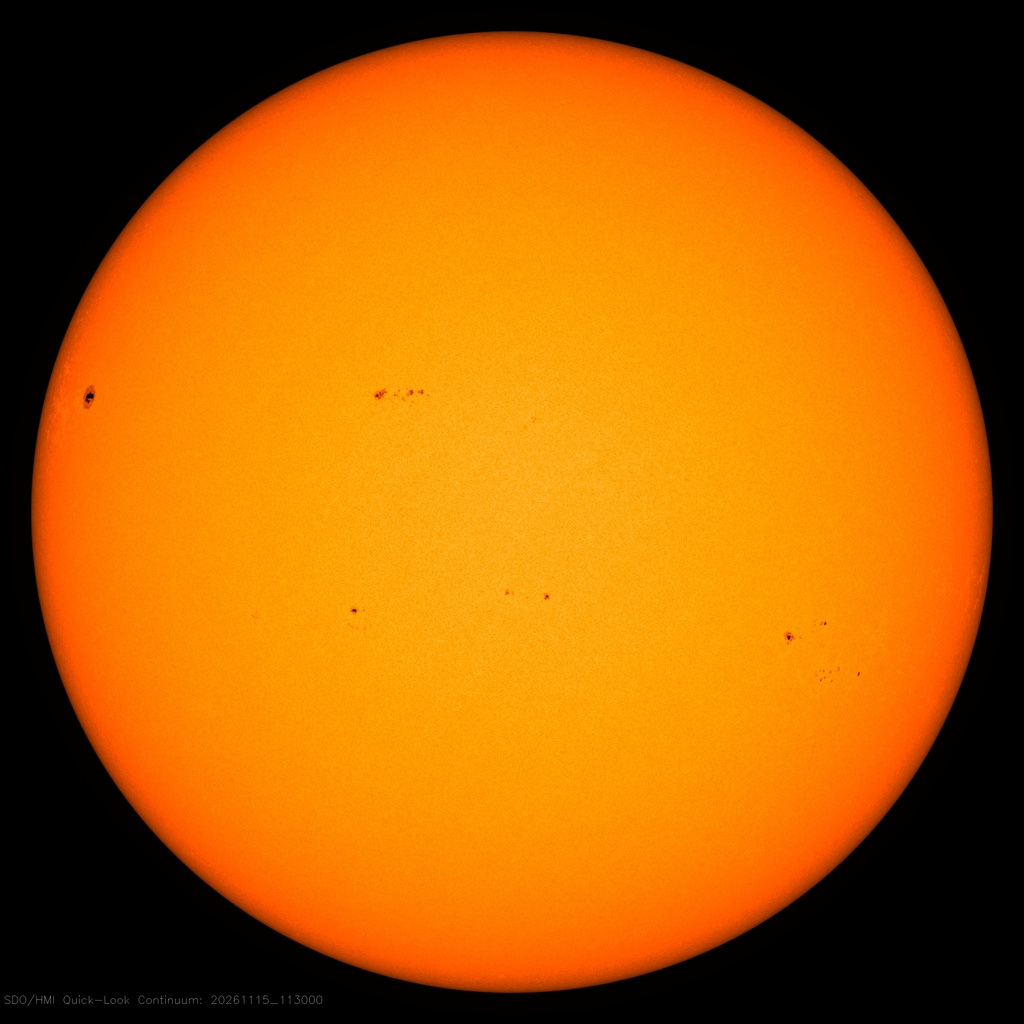
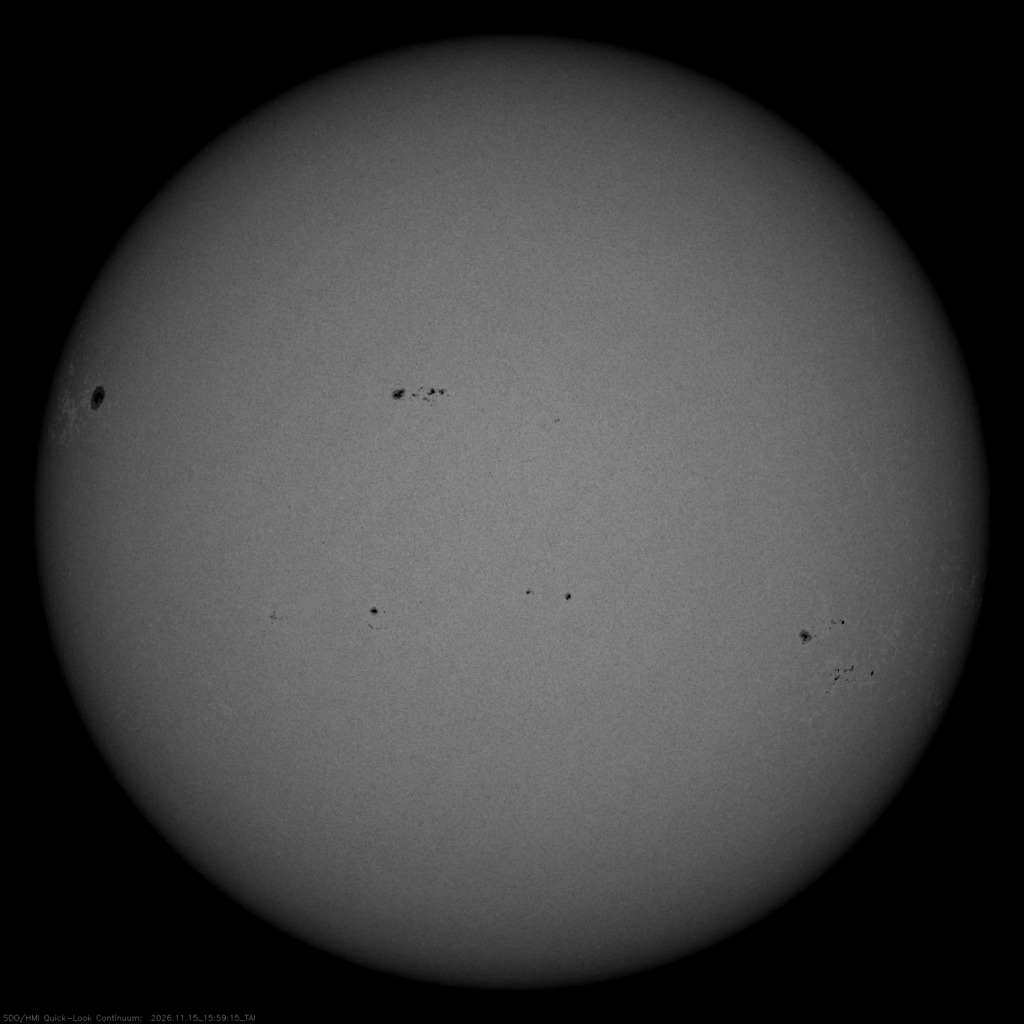
Show the Sun with NASA HMI continuum imagery

diff --git a/frontend/src/App.tsx b/frontend/src/App.tsx
@@ -33,9 +33,10 @@ const TABS:Tab[]=['Landing Sites','Infrastructure Designer','Compare','Science &
 const SHORT_TABS:Record<Tab,string>={'Landing Sites':'Sites','Infrastructure Designer':'Designer','Compare':'Compare','Science & Sources':'Science'};
 const reducedMotion=()=>matchMedia('(prefers-reduced-motion: reduce)').matches;
 const ANALYSIS_DOCK_MEDIA='(width > 900px)';
-const MOON_IMAGERY_SOURCES=[
+const SPACE_IMAGERY_SOURCES=[
  {href:'https://www.lroc.asu.edu/',label:'NASA/GSFC/Arizona State University (LROC)'},
  {href:'https://svs.gsfc.nasa.gov/4720',label:'NASA SVS CGI Moon Kit'},
+ {href:'https://sdo.gsfc.nasa.gov/data/',label:'Sun: NASA Solar Dynamics Observatory / HMI (illustrative image)'},
 ];
 class SceneBoundary extends Component<{children:ReactNode},{error:boolean}>{state={error:false};static getDerivedStateFromError(){return {error:true};}render(){return this.state.error?<div className="scene-error"><Mountain/><p>3D rendering is unavailable on this device.</p><span>Use the station selector and scientific charts.</span></div>:this.props.children;}}
 function MetricBlock({label,value,unit,detail,color}:{label:string;value:string;unit:string;detail:ReactNode;color:string}){return <div className="metric-block"><span className={`eyebrow ${color}`}>{label}</span><div className="metric-number">{value}<small>{unit}</small></div><span className="metric-detail">{detail}</span></div>;}
@@ -442,9 +443,9 @@ function App(){
   moon==='site'&&<button className="text-button" onClick={exportResult}><Download size={14}/>Export</button>);
 }
 function Science({data}:{data:Bundle}){return <section className="science-page"><article><h1>Observations first.<br/>Engineering assumptions, explicit.</h1><p className="lead">This study uses geometric line of sight to assess visibility at two locations on Connecting Ridge near the lunar south pole. The terrain comes from NASA LOLA; Sun and Earth directions come from JPL Horizons. Changing a station selects a newly calculated horizon, never an invented improvement.</p><div className="method-steps"><div><b>01</b><h3>Measure the terrain</h3><p>A real 5 m DEM in MOON_ME/DE421 supplies elevation and coordinates. The 3D close-up draws every 5 m sample of the evaluated window, inside the rest of the same 16 km LOLA Site01 DEM (10 and 20 m block means), on the lunar surface. The visibility calculation also accounts for regional terrain. The scene uses {VERTICAL_EXAGGERATION}× vertical exaggeration. Horizon and visibility calculations use the original elevations.</p></div><div><b>02</b><h3>Reconstruct the horizon</h3><p>Terrain is converted to spherical body-fixed Cartesian coordinates. Elevation angles use true local east, north and up, including lunar curvature. Obstacles are accumulated into azimuth sectors.</p></div><div><b>03</b><h3>Compare angular elevations</h3><p>A body’s center is visible when its elevation exceeds the terrain horizon at its azimuth. Samples are 30 minutes apart. Each sample represents the interval until the next; the final endpoint adds no extra time.</p></div><div><b>04</b><h3>Search the finite grid</h3><p>The optimizer checks all cached candidate and height combinations against your hard constraints. Feasible configurations are ranked by height/20 + distance/1000 + slope/90. This is an engineering preference, not money, mass or mission certification.</p></div></div><h3>What the model does not establish</h3><ul>{data.methodology.limitations.map((t,i)=><li key={i}>{t}</li>)}<li>DEM interpolation and angular sampling introduce uncertainty. Thirty-minute output does not imply thirty-minute accuracy.</li><li>Local links use a 2 m lander reference and terrain clearance. Antenna gain, frequency, Fresnel zones, radio power and station orientation are not modeled.</li><li>Nearby candidate directions are rotated into their own true local frame; small translational parallax is bounded in the exported provenance.</li><li>The IM-2 landing coordinates lie outside this local dataset. Connecting Ridge is not presented as the IM-2 landing location.</li><li>The 3D view applies the same {VERTICAL_EXAGGERATION}× vertical transform to terrain, lunar curvature, mast heights and sightlines. The display uses the centers of the enlarged celestial discs to determine visibility.</li></ul><h3>NASA data and primary references</h3><div className="source-list">{data.methodology.sources.map(s=><a key={s.url} href={s.url} target="_blank" rel="noreferrer">{s.name}<ExternalLink size={16}/></a>)}</div>
- <h3>Moon imagery credits</h3>
+ <h3>Space imagery credits</h3>
  <div className="source-list">
-  {MOON_IMAGERY_SOURCES.map(source=><a key={source.href} href={source.href} target="_blank" rel="noreferrer">{source.label}<ExternalLink size={16}/></a>)}
+  {SPACE_IMAGERY_SOURCES.map(source=><a key={source.href} href={source.href} target="_blank" rel="noreferrer">{source.label}<ExternalLink size={16}/></a>)}
  </div>
  <details><summary>Inspect dataset provenance</summary>
   <p>The local DEM covers {fmt(data.terrain.original_shape[1]*data.terrain.pixel_size_m/1000,2)} × {fmt(data.terrain.original_shape[0]*data.terrain.pixel_size_m/1000,2)} km.</p>

diff --git a/frontend/src/TerrainView.tsx b/frontend/src/TerrainView.tsx
@@ -45,7 +45,9 @@ const fovFor=(aspect:number)=>THREE.MathUtils.clamp(2*Math.atan(Math.tan(HERO_HF
 const ALBEDO=new THREE.Color(.3,.295,.285);
 const easeInOutCubic=(t:number)=>t<.5?4*t*t*t:1-Math.pow(-2*t+2,3)/2;
 const C={sun:'#FFC46B',earth:'#8FD3FF',station:'#F5F5F5',lander:'#F5F5F5',candidate:'#C7C9CD',feasible:'#F5F5F5',recommended:'#8FD3FF',ok:'#F5F5F5'};
-const SKY_DISC_COLOR={sun:'#ffe17a',earth:C.earth};
+const SKY_DISC_COLOR={sun:'#f5f5f5',earth:C.earth};
+// Raise the grayscale HMI browse image's exposure without tinting or flattening its limb.
+const SOLAR_EXPOSURE=new THREE.Color(3.5,3.5,3.5);
 const BODY_LABELS={sun:'Sun',earth:'Earth'} as const;
 const BODY_KEYS=['sun','earth'] as const;
 const BLOCKED_COLOR='#ff625e';
@@ -340,14 +342,6 @@ const STATION_LABEL:Point=[0,.13,0];
 const bodyRadius=(body:Ray['body'])=>SKY_KM*Math.tan(BODY_PHOTOS[body].diameter*DEG/2);
 const rayLabel=({end:[x,y,z]}:Ray):Point=>[x,y+.06,z];
 
-const renderSolarContinuum:THREE.MeshBasicMaterial['onBeforeCompile']=shader=>{
- // The HMI JPEG is colorized. The green channel retains contrast where red clips across the disc.
- shader.fragmentShader=shader.fragmentShader.replace('#include <map_fragment>',`#include <map_fragment>
-  float intensity = min(1.0, 1.38 * sqrt(diffuseColor.g));
-  diffuseColor.rgb = intensity * vec3(1.0, 0.75, 0.19);
- `);
-};
-
 function BodyDisc({body,radius,visible}:{body:Ray['body'];radius:number;visible:boolean}){
  const [map,setMap]=useState<THREE.Texture|null>(null);
  useEffect(()=>{
@@ -360,10 +354,10 @@ function BodyDisc({body,radius,visible}:{body:Ray['body'];radius:number;visible:
   texture.offset.set(photo.offset[0],photo.offset[1]);
   return()=>{mounted=false;texture.dispose();};
  },[body]);
+ const color=map?(body==='sun'?SOLAR_EXPOSURE:'#ffffff'):SKY_DISC_COLOR[body];
  return <mesh renderOrder={60} raycast={noRaycast}>
   <circleGeometry args={[radius,64]}/>
-  <meshBasicMaterial key={map?'photo':'placeholder'} map={map} color={map?'#ffffff':SKY_DISC_COLOR[body]}
-   onBeforeCompile={map&&body==='sun'?renderSolarContinuum:undefined}
+  <meshBasicMaterial key={map?'photo':'placeholder'} map={map} color={color}
    depthWrite={false} transparent opacity={visible?1:.22} toneMapped={false}/>
  </mesh>;
 }
